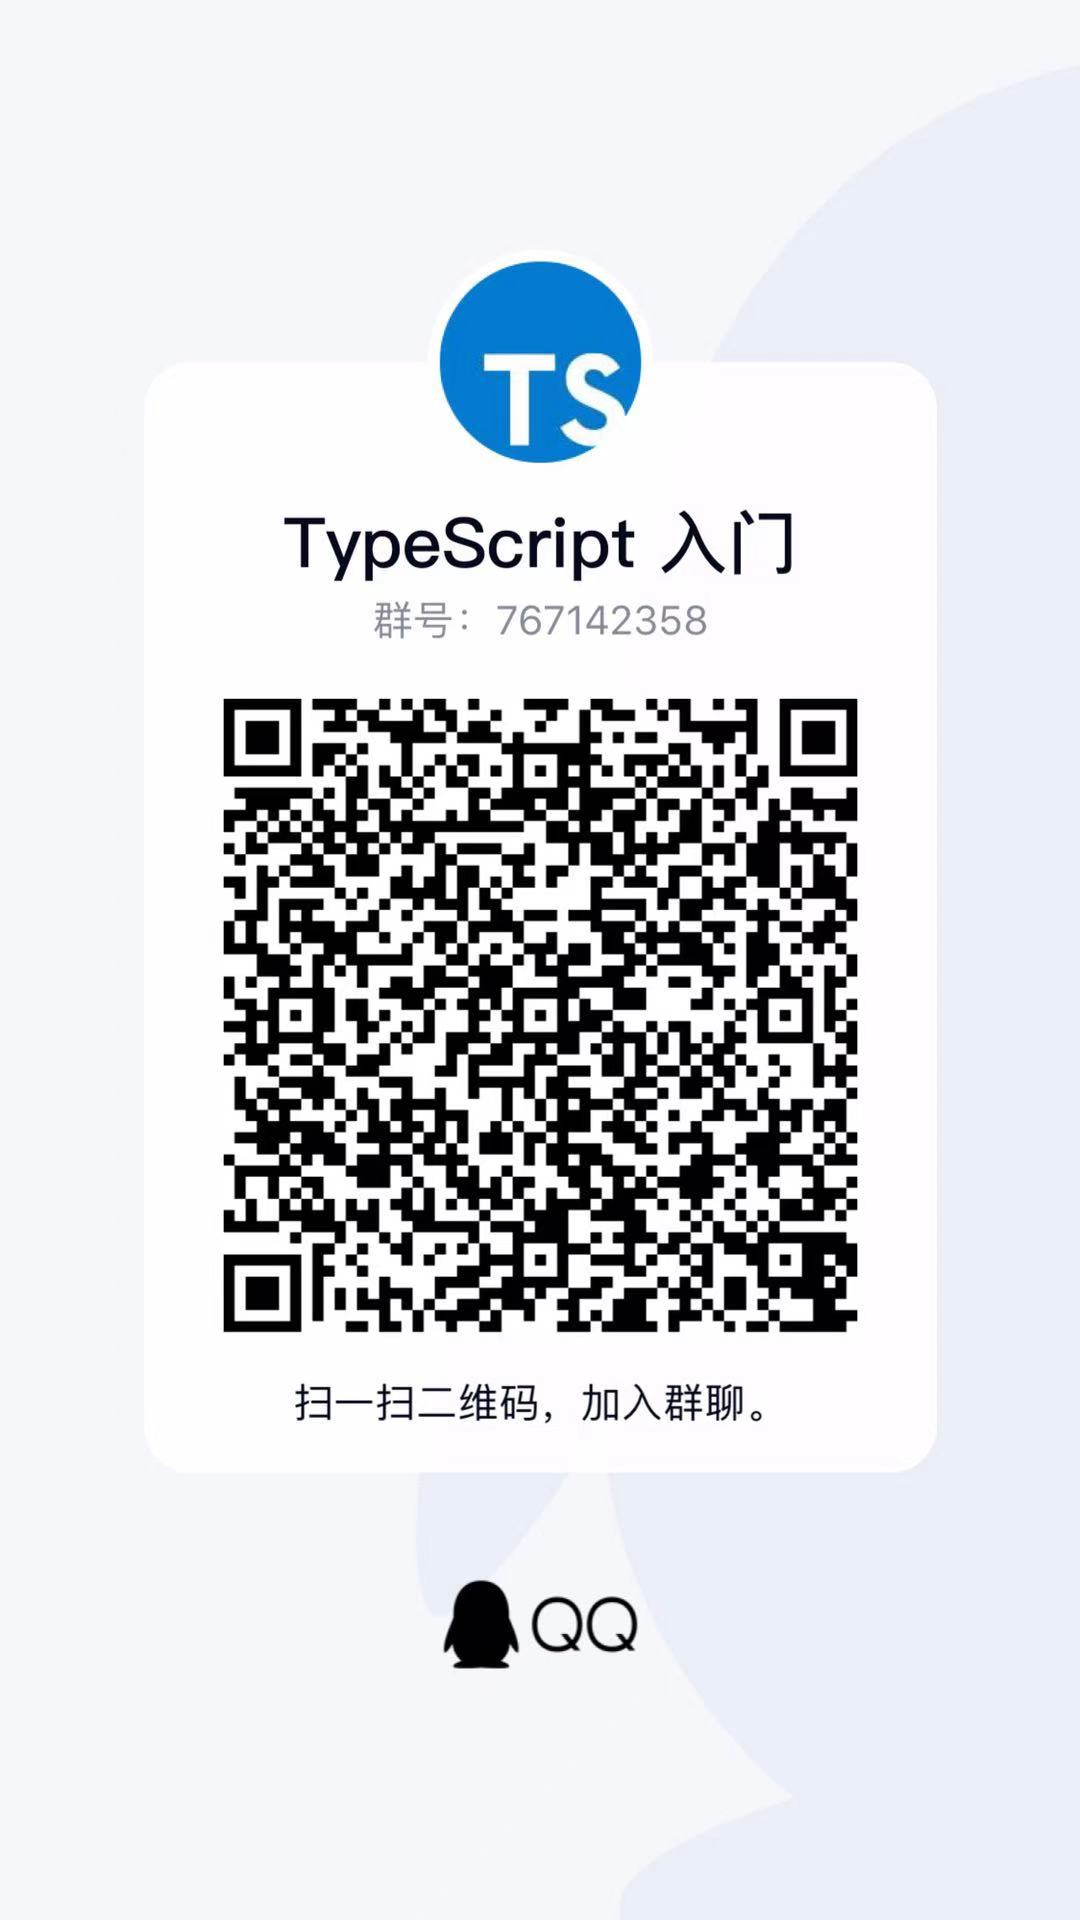
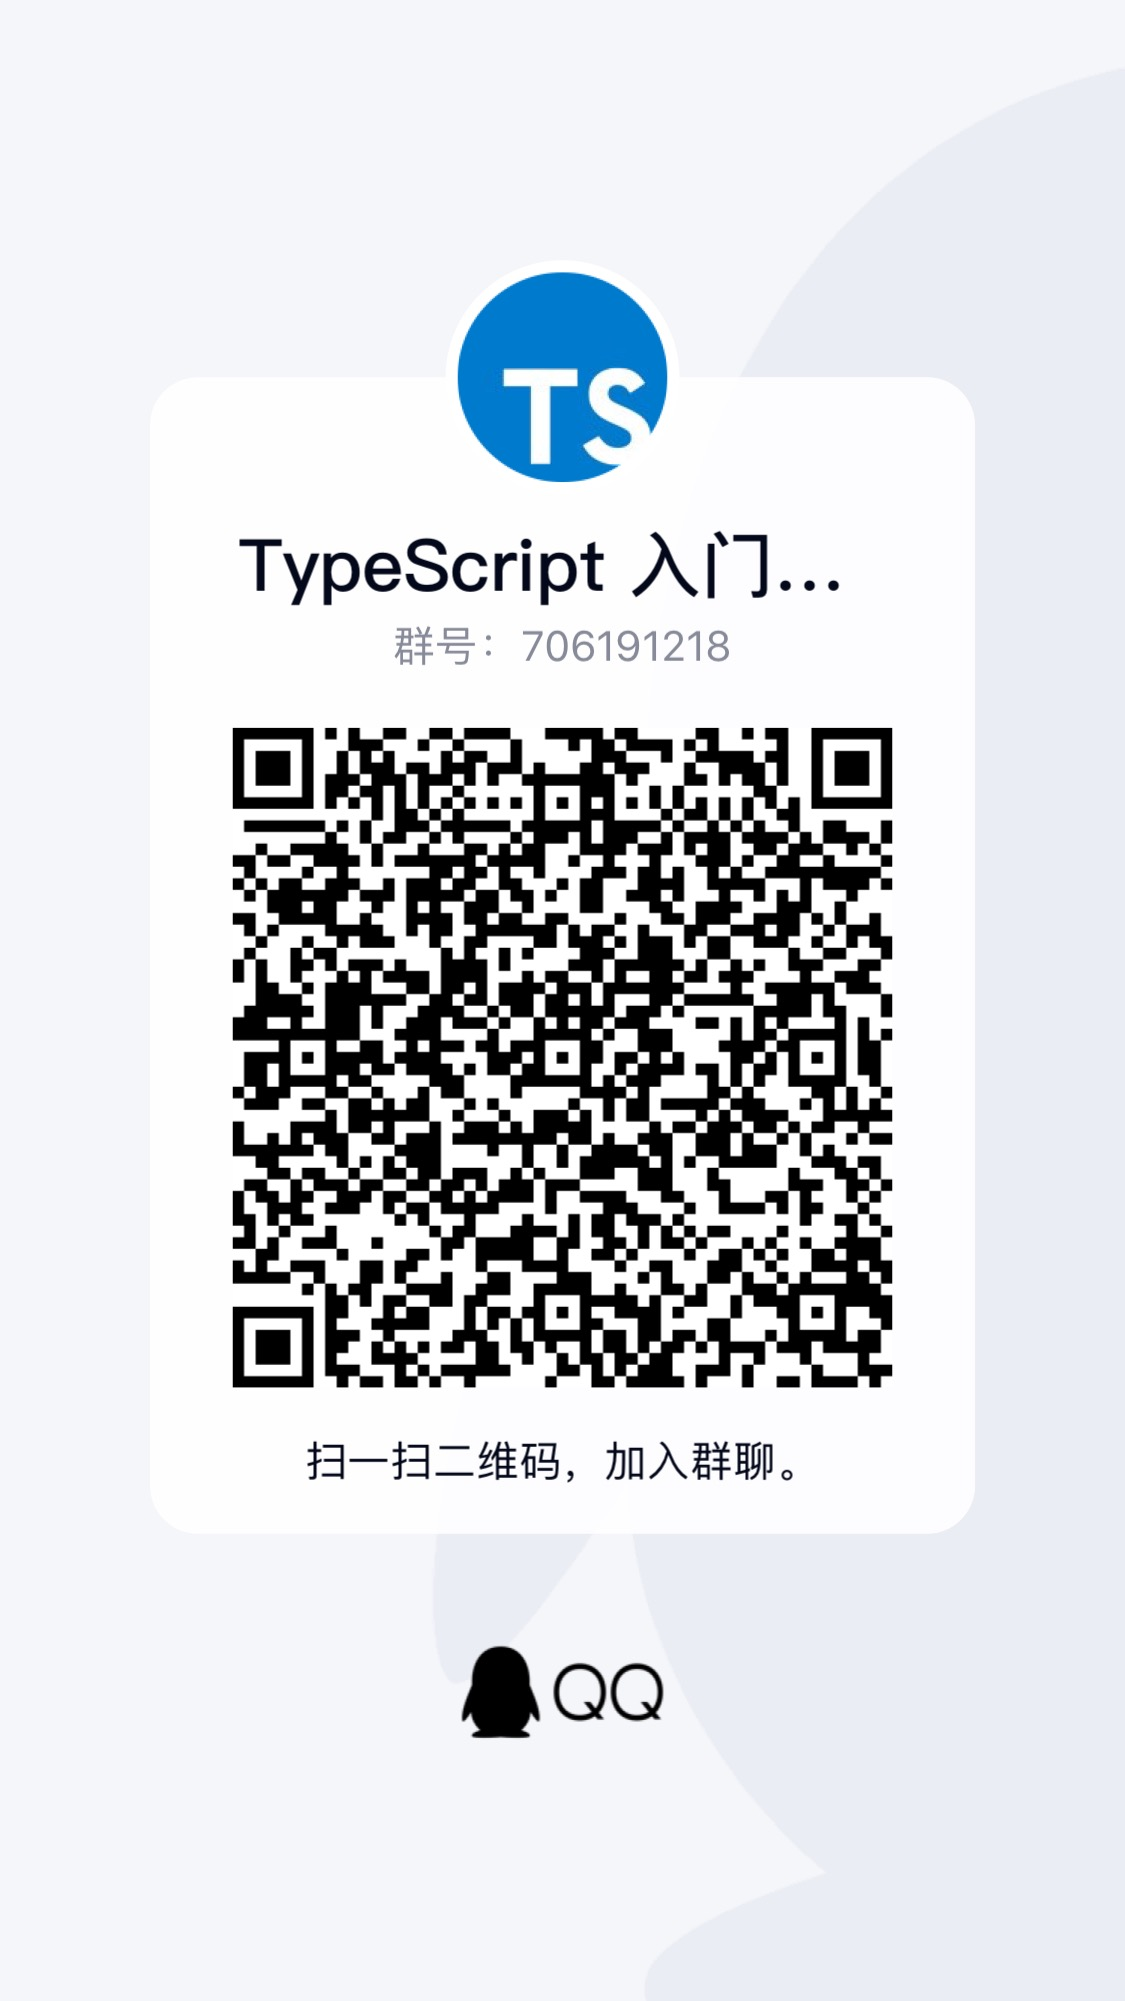
更新 pagic 1.0

diff --git a/pagic.config.tsx b/pagic.config.tsx
@@ -1,4 +1,4 @@
-import { React } from 'https://deno.land/x/pagic/mod.ts';
+import { React } from 'https://deno.land/x/pagic@v1.0.0/mod.ts';
 
 export default {
   srcDir: '.',
@@ -19,16 +19,13 @@ export default {
           <img src="/assets/wechat.jpg" width="256" style={{ marginRight: '1rem', verticalAlign: 'top' }} />
           <img src="/assets/alipay.jpg" width="256" style={{ verticalAlign: 'top' }} />
         </>
-      )
+      ),
     },
     {
       text: '加入微信群',
       popover: (
-        <>
-          <p style={{ marginTop: 0, marginBottom: '1rem' }}>若二维码失效请微信联系 xcatliu 更新</p>
-          <img src="/assets/join-wechat.jpg" width="256" />
-        </>
-      )
+        <p style={{ marginTop: 0, width: 256 }}>微信群已超过 200 人，如要加群，请加群主微信 xcatliu 并备注 ts</p>
+      ),
     },
     {
       text: '加入 QQ 群',
@@ -36,10 +33,12 @@ export default {
       target: '_blank',
       popover: (
         <>
-          <p style={{ marginTop: 0, marginBottom: '1rem' }}>群号: 767142358</p>
+          <p style={{ marginTop: 0, marginBottom: '1rem', width: 256 }}>
+            一群（767142358）已满，请扫码加二群（706191218）
+          </p>
           <img src="/assets/join-qq.jpg" width="256" />
         </>
-      )
+      ),
     },
     {
       text: '下载本书',
@@ -57,8 +56,13 @@ export default {
             <img src="https://www.geekxh.com/ts/09.png?pprv" width="256" />
           </a>
         </>
-      )
-    }
+      ),
+    },
+    {
+      text: '本网站使用 Pagic 构建',
+      link: 'https://github.com/xcatliu/pagic',
+      target: '_blank',
+    },
   ],
   sidebar: {
     '/': [
@@ -67,8 +71,8 @@ export default {
         children: [
           'introduction/what-is-typescript.md',
           'introduction/get-typescript.md',
-          'introduction/hello-typescript.md'
-        ]
+          'introduction/hello-typescript.md',
+        ],
       },
       {
         link: 'basics/README.md',
@@ -82,8 +86,8 @@ export default {
           'basics/type-of-function.md',
           'basics/type-assertion.md',
           'basics/declaration-files.md',
-          'basics/built-in-objects.md'
-        ]
+          'basics/built-in-objects.md',
+        ],
       },
       {
         link: 'advanced/README.md',
@@ -96,19 +100,19 @@ export default {
           'advanced/class-and-interfaces.md',
           'advanced/generics.md',
           'advanced/declaration-merging.md',
-          'advanced/further-reading.md'
-        ]
+          'advanced/further-reading.md',
+        ],
       },
       {
         link: 'engineering/README.md',
-        children: ['engineering/lint.md', 'engineering/compiler-options.md']
+        children: ['engineering/lint.md', 'engineering/compiler-options.md'],
       },
-      'thanks/README.md'
-    ]
+      'thanks/README.md',
+    ],
   },
   tools: {
     editOnGitHub: true,
-    backToTop: true
+    backToTop: true,
   },
   //   tocAd: (
   //     <div
@@ -134,10 +138,10 @@ export default {
     repo: 'typescript-tutorial',
     owner: 'xcatliu',
     admin: ['xcatliu'],
-    pagerDirection: 'first'
+    pagerDirection: 'first',
   },
   ga: {
-    id: 'UA-45256157-14'
+    id: 'UA-45256157-14',
   },
-  port: 8001
+  port: 8001,
 };

diff --git a/.prettierrc.js b/.prettierrc.js
@@ -15,7 +15,7 @@ module.exports = {
   // use double quotes instead of single quotes in jsx
   jsxSingleQuote: false,
   // no comma at the end
-  trailingComma: 'none',
+  trailingComma: 'all',
   // spaces are required at the beginning and end of the braces
   bracketSpacing: true,
   // end tag of jsx need to wrap
@@ -34,5 +34,5 @@ module.exports = {
   // decide whether to break the html according to the display style
   htmlWhitespaceSensitivity: 'css',
   // lf for newline
-  endOfLine: 'lf'
+  endOfLine: 'lf',
 };

diff --git a/.eslintrc.js b/.eslintrc.js
@@ -17,6 +17,6 @@ module.exports = {
     'no-undef': 'off',
     '@typescript-eslint/no-invalid-this': 'off',
     '@typescript-eslint/no-require-imports': 'off',
-    '@typescript-eslint/method-signature-style': 'off'
-  }
+    '@typescript-eslint/method-signature-style': 'off',
+  },
 };
